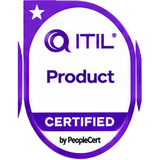
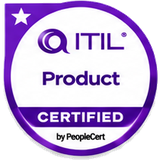
New ITIL badge set (incl. Master); main map ends at Level 7
- 14 badges re-cut from the new image, ITIL Master now has its badge
- Removed the ITIL boxes after Level 7 on the main map; they stay on
  the Advanced Specializations page; cache v=68

Claude-Session: https://claude.ai/code/session_018kgnHRXPcwgYaQevPB5mKf

diff --git a/lesson.html b/lesson.html
@@ -4,7 +4,7 @@
   <link rel="preconnect" href="https://fonts.googleapis.com"><link rel="preconnect" href="https://fonts.gstatic.com" crossorigin><link href="https://fonts.googleapis.com/css2?family=Poppins:wght@400;500;600;700;800&display=swap" rel="stylesheet">
   <meta charset="utf-8">
   <meta name="robots" content="noindex,nofollow">
-  <script src="gate.js?v=67"></script>
+  <script src="gate.js?v=68"></script>
   <meta name="viewport" content="width=device-width, initial-scale=1">
   <title>Lesson · 10-Minute IT Roadmap</title>
   <meta name="description" content="From complete beginner to IT specialist, one 10-minute lesson at a time.">
@@ -12,7 +12,7 @@
   <link rel="manifest" href="manifest.webmanifest">
   <meta name="theme-color" content="#0a0a14">
   <link rel="apple-touch-icon" href="assets/app/apple-touch-icon.png">
-  <link rel="stylesheet" href="style.css?v=67">
+  <link rel="stylesheet" href="style.css?v=68">
 </head>
 <body data-page="lesson">
 
@@ -38,12 +38,12 @@
     <span>Videos on <a href="https://www.youtube.com/" target="_blank" rel="noopener">YouTube</a></span>
   </footer>
 
-  <script src="roadmap.js?v=67"></script>
-  <script src="courses.js?v=67"></script>
-  <script src="icons.js?v=67"></script>
-  <script src="quiz.js?v=67"></script>
-  <script src="celebrate.js?v=67"></script>
-  <script src="lesson.js?v=67"></script>
-  <script src="nav.js?v=67"></script>
+  <script src="roadmap.js?v=68"></script>
+  <script src="courses.js?v=68"></script>
+  <script src="icons.js?v=68"></script>
+  <script src="quiz.js?v=68"></script>
+  <script src="celebrate.js?v=68"></script>
+  <script src="lesson.js?v=68"></script>
+  <script src="nav.js?v=68"></script>
 </body>
 </html>

diff --git a/app.js b/app.js
@@ -71,10 +71,8 @@
 
   var midEl = document.createElement("div");  midEl.className = "final l6m";
   var finalEl = document.createElement("div");  finalEl.className = "final";
-  var advRecEl = document.createElement("div"); advRecEl.className = "final itil-rec-node"; var advRec = itilRecCard("advanced"); advRecEl.appendChild(advRec);
-  var furRecEl = document.createElement("div"); furRecEl.className = "final itil-rec-node"; var furRec = itilRecCard("further"); furRecEl.appendChild(furRec);
   var trackEl = document.createElement("div");  trackEl.className = "final track";
-  if (levelsEl) { levelsEl.appendChild(trunk); levelsEl.appendChild(branches); levelsEl.appendChild(l5El); levelsEl.appendChild(certEl); levelsEl.appendChild(toolsEl); levelsEl.appendChild(midEl); levelsEl.appendChild(finalEl); levelsEl.appendChild(advRecEl); levelsEl.appendChild(furRecEl); levelsEl.appendChild(trackEl); }
+  if (levelsEl) { levelsEl.appendChild(trunk); levelsEl.appendChild(branches); levelsEl.appendChild(l5El); levelsEl.appendChild(certEl); levelsEl.appendChild(toolsEl); levelsEl.appendChild(midEl); levelsEl.appendChild(finalEl); levelsEl.appendChild(trackEl); }
 
   function closeAll(except) {
     entries.forEach(function (en) { if (en.lv !== except) en.lv.classList.remove("open"); });
@@ -256,9 +254,6 @@
       linkDashed(toolsRect, l6mRect, "#38bdf8");
       link(6, 7, 7);
     }
-    var l7Rect = entries[7].card.getBoundingClientRect(), advRect = advRec.getBoundingClientRect(), furRect = furRec.getBoundingClientRect();
-    linkDashed(l7Rect, advRect, "#38bdf8");
-    linkDashed(advRect, furRect, "#fbbf24");
     svg.innerHTML = out;
   }
 

diff --git a/level.html b/level.html
@@ -4,7 +4,7 @@
   <link rel="preconnect" href="https://fonts.googleapis.com"><link rel="preconnect" href="https://fonts.gstatic.com" crossorigin><link href="https://fonts.googleapis.com/css2?family=Poppins:wght@400;500;600;700;800&display=swap" rel="stylesheet">
   <meta charset="utf-8">
   <meta name="robots" content="noindex,nofollow">
-  <script src="gate.js?v=67"></script>
+  <script src="gate.js?v=68"></script>
   <meta name="viewport" content="width=device-width, initial-scale=1">
   <title>Level · 10-Minute IT Roadmap</title>
   <meta name="description" content="From complete beginner to IT specialist, one 10-minute lesson at a time.">
@@ -12,7 +12,7 @@
   <link rel="manifest" href="manifest.webmanifest">
   <meta name="theme-color" content="#0a0a14">
   <link rel="apple-touch-icon" href="assets/app/apple-touch-icon.png">
-  <link rel="stylesheet" href="style.css?v=67">
+  <link rel="stylesheet" href="style.css?v=68">
 </head>
 <body data-page="level">
 
@@ -48,11 +48,11 @@
     <span>Videos on <a href="https://www.youtube.com/" target="_blank" rel="noopener">YouTube</a></span>
   </footer>
 
-  <script src="roadmap.js?v=67"></script>
-  <script src="courses.js?v=67"></script>
-  <script src="icons.js?v=67"></script>
-  <script src="quiz.js?v=67"></script>
-  <script src="level.js?v=67"></script>
-  <script src="nav.js?v=67"></script>
+  <script src="roadmap.js?v=68"></script>
+  <script src="courses.js?v=68"></script>
+  <script src="icons.js?v=68"></script>
+  <script src="quiz.js?v=68"></script>
+  <script src="level.js?v=68"></script>
+  <script src="nav.js?v=68"></script>
 </body>
 </html>

diff --git a/intermediate.html b/intermediate.html
@@ -4,7 +4,7 @@
   <link rel="preconnect" href="https://fonts.googleapis.com"><link rel="preconnect" href="https://fonts.gstatic.com" crossorigin><link href="https://fonts.googleapis.com/css2?family=Poppins:wght@400;500;600;700;800&display=swap" rel="stylesheet">
   <meta charset="utf-8">
   <meta name="robots" content="noindex,nofollow">
-  <script src="gate.js?v=67"></script>
+  <script src="gate.js?v=68"></script>
   <meta name="viewport" content="width=device-width, initial-scale=1">
   <title>Intermediate · 10-Minute IT Roadmap</title>
   <meta name="description" content="Intermediate IT roadmap — 11 modules from OS internals to cloud computing.">
@@ -12,7 +12,7 @@
   <link rel="manifest" href="manifest.webmanifest">
   <meta name="theme-color" content="#0a0a14">
   <link rel="apple-touch-icon" href="assets/app/apple-touch-icon.png">
-  <link rel="stylesheet" href="style.css?v=67">
+  <link rel="stylesheet" href="style.css?v=68">
   <style>
     /* Intermediate page — blue-teal accent overrides */
     body[data-page="int"] {
@@ -91,10 +91,10 @@
     <span>Videos on <a href="https://www.youtube.com/" target="_blank" rel="noopener">YouTube</a></span>
   </footer>
 
-  <script src="roadmap.js?v=67"></script>
-  <script src="courses.js?v=67"></script>
-  <script src="icons.js?v=67"></script>
-  <script src="int-app.js?v=67"></script>
-  <script src="nav.js?v=67"></script>
+  <script src="roadmap.js?v=68"></script>
+  <script src="courses.js?v=68"></script>
+  <script src="icons.js?v=68"></script>
+  <script src="int-app.js?v=68"></script>
+  <script src="nav.js?v=68"></script>
 </body>
 </html>

diff --git a/index.html b/index.html
@@ -4,7 +4,7 @@
   <link rel="preconnect" href="https://fonts.googleapis.com"><link rel="preconnect" href="https://fonts.gstatic.com" crossorigin><link href="https://fonts.googleapis.com/css2?family=Poppins:wght@400;500;600;700;800&display=swap" rel="stylesheet">
   <meta charset="utf-8">
   <meta name="robots" content="noindex,nofollow">
-  <script src="gate.js?v=67"></script>
+  <script src="gate.js?v=68"></script>
   <meta name="viewport" content="width=device-width, initial-scale=1">
   <title>10-Minute IT Roadmap</title>
   <meta name="description" content="From complete beginner to IT specialist, one 10-minute lesson at a time.">
@@ -12,7 +12,7 @@
   <link rel="manifest" href="manifest.webmanifest">
   <meta name="theme-color" content="#0a0a14">
   <link rel="apple-touch-icon" href="assets/app/apple-touch-icon.png">
-  <link rel="stylesheet" href="style.css?v=67">
+  <link rel="stylesheet" href="style.css?v=68">
 </head>
 <body>
 
@@ -86,12 +86,12 @@
     </div>
   </div>
 
-  <script src="roadmap.js?v=67"></script>
-  <script src="courses.js?v=67"></script>
-  <script src="icons.js?v=67"></script>
-  <script src="quiz.js?v=67"></script>
-  <script src="app.js?v=67"></script>
-  <script src="nav.js?v=67"></script>
-  <script src="plans.js?v=67"></script>
+  <script src="roadmap.js?v=68"></script>
+  <script src="courses.js?v=68"></script>
+  <script src="icons.js?v=68"></script>
+  <script src="quiz.js?v=68"></script>
+  <script src="app.js?v=68"></script>
+  <script src="nav.js?v=68"></script>
+  <script src="plans.js?v=68"></script>
 </body>
 </html>

diff --git a/courses.js b/courses.js
@@ -234,7 +234,7 @@ const ITIL_RECS = {
     { name: "ITIL Managing Professional", items: ["product", "service", "experience", "transformation"], note: "Transformation is the shared requirement" },
     { name: "ITIL Strategic Leader", items: ["strategy", "transformation"], note: "Transformation is the shared requirement" }
   ]},
-  further: { title: "Further achievements and specialization", sub: "Optional", color: "#fbbf24", groups: [
+  further: { badge: "master", title: "Further achievements and specialization", sub: "Optional", color: "#fbbf24", groups: [
     { name: "ITIL Master", items: ["master"], note: "requires all three designations" },
     { name: "ITIL AI Governance", items: ["aigov"], note: "optional extension certification" }
   ]}
@@ -261,8 +261,8 @@ function itilRecCard(key) {
   return card;
 }
 
-/* official-style ITIL badge images (assets/itil-badges/<id>.png). ITIL Master has none, so it keeps the drawn badge. */
-const ITIL_BADGES = ["foundation", "transformation", "pm", "mp", "sl", "msf", "pic", "cai", "product", "service", "experience", "strategy", "aigov"];
+/* official-style ITIL badge images (assets/itil-badges/<id>.png) */
+const ITIL_BADGES = ["foundation", "transformation", "pm", "mp", "sl", "master", "msf", "pic", "cai", "product", "service", "experience", "strategy", "aigov"];
 function itilBadgeImg(id, size, cls) {
   if (ITIL_BADGES.indexOf(id) < 0) return "";
   return '<img class="itil-badge ' + (cls || "") + '" src="assets/itil-badges/' + id + '.png" alt="" width="' + size + '" height="' + size + '">';

diff --git a/certs.html b/certs.html
@@ -4,7 +4,7 @@
   <link rel="preconnect" href="https://fonts.googleapis.com"><link rel="preconnect" href="https://fonts.gstatic.com" crossorigin><link href="https://fonts.googleapis.com/css2?family=Poppins:wght@400;500;600;700;800&display=swap" rel="stylesheet">
   <meta charset="utf-8">
   <meta name="robots" content="noindex,nofollow">
-  <script src="gate.js?v=67"></script>
+  <script src="gate.js?v=68"></script>
   <meta name="viewport" content="width=device-width, initial-scale=1">
   <title>Certifications · 10-Minute IT Roadmap</title>
   <meta name="description" content="From complete beginner to IT specialist, one 10-minute lesson at a time.">
@@ -12,7 +12,7 @@
   <link rel="manifest" href="manifest.webmanifest">
   <meta name="theme-color" content="#0a0a14">
   <link rel="apple-touch-icon" href="assets/app/apple-touch-icon.png">
-  <link rel="stylesheet" href="style.css?v=67">
+  <link rel="stylesheet" href="style.css?v=68">
 </head>
 <body data-page="certs">
 
@@ -52,10 +52,10 @@
     <span>Videos on <a href="https://www.youtube.com/" target="_blank" rel="noopener">YouTube</a></span>
   </footer>
 
-  <script src="roadmap.js?v=67"></script>
-  <script src="courses.js?v=67"></script>
-  <script src="icons.js?v=67"></script>
-  <script src="certs.js?v=67"></script>
-  <script src="nav.js?v=67"></script>
+  <script src="roadmap.js?v=68"></script>
+  <script src="courses.js?v=68"></script>
+  <script src="icons.js?v=68"></script>
+  <script src="certs.js?v=68"></script>
+  <script src="nav.js?v=68"></script>
 </body>
 </html>

diff --git a/tools.html b/tools.html
@@ -4,7 +4,7 @@
   <link rel="preconnect" href="https://fonts.googleapis.com"><link rel="preconnect" href="https://fonts.gstatic.com" crossorigin><link href="https://fonts.googleapis.com/css2?family=Poppins:wght@400;500;600;700;800&display=swap" rel="stylesheet">
   <meta charset="utf-8">
   <meta name="robots" content="noindex,nofollow">
-  <script src="gate.js?v=67"></script>
+  <script src="gate.js?v=68"></script>
   <meta name="viewport" content="width=device-width, initial-scale=1">
   <title>IT Tools · 10-Minute IT Roadmap</title>
   <meta name="description" content="From complete beginner to IT specialist, one 10-minute lesson at a time.">
@@ -12,7 +12,7 @@
   <link rel="manifest" href="manifest.webmanifest">
   <meta name="theme-color" content="#0a0a14">
   <link rel="apple-touch-icon" href="assets/app/apple-touch-icon.png">
-  <link rel="stylesheet" href="style.css?v=67">
+  <link rel="stylesheet" href="style.css?v=68">
 </head>
 <body data-page="tools">
 
@@ -49,9 +49,9 @@
     <span>Videos on <a href="https://www.youtube.com/" target="_blank" rel="noopener">YouTube</a></span>
   </footer>
 
-  <script src="roadmap.js?v=67"></script>
-  <script src="courses.js?v=67"></script>
-  <script src="tools-page.js?v=67"></script>
-  <script src="nav.js?v=67"></script>
+  <script src="roadmap.js?v=68"></script>
+  <script src="courses.js?v=68"></script>
+  <script src="tools-page.js?v=68"></script>
+  <script src="nav.js?v=68"></script>
 </body>
 </html>

diff --git a/course.html b/course.html
@@ -4,7 +4,7 @@
   <link rel="preconnect" href="https://fonts.googleapis.com"><link rel="preconnect" href="https://fonts.gstatic.com" crossorigin><link href="https://fonts.googleapis.com/css2?family=Poppins:wght@400;500;600;700;800&display=swap" rel="stylesheet">
   <meta charset="utf-8">
   <meta name="robots" content="noindex,nofollow">
-  <script src="gate.js?v=67"></script>
+  <script src="gate.js?v=68"></script>
   <meta name="viewport" content="width=device-width, initial-scale=1">
   <title>ITIL · 10-Minute IT Roadmap</title>
   <meta name="description" content="From complete beginner to IT specialist, one 10-minute lesson at a time.">
@@ -12,7 +12,7 @@
   <link rel="manifest" href="manifest.webmanifest">
   <meta name="theme-color" content="#0a0a14">
   <link rel="apple-touch-icon" href="assets/app/apple-touch-icon.png">
-  <link rel="stylesheet" href="style.css?v=67">
+  <link rel="stylesheet" href="style.css?v=68">
 </head>
 <body data-page="course">
 
@@ -38,9 +38,9 @@
     <span>Videos on <a href="https://www.youtube.com/" target="_blank" rel="noopener">YouTube</a></span>
   </footer>
 
-  <script src="roadmap.js?v=67"></script>
-  <script src="courses.js?v=67"></script>
-  <script src="course-page.js?v=67"></script>
-  <script src="nav.js?v=67"></script>
+  <script src="roadmap.js?v=68"></script>
+  <script src="courses.js?v=68"></script>
+  <script src="course-page.js?v=68"></script>
+  <script src="nav.js?v=68"></script>
 </body>
 </html>

diff --git a/tool.html b/tool.html
@@ -4,7 +4,7 @@
   <link rel="preconnect" href="https://fonts.googleapis.com"><link rel="preconnect" href="https://fonts.gstatic.com" crossorigin><link href="https://fonts.googleapis.com/css2?family=Poppins:wght@400;500;600;700;800&display=swap" rel="stylesheet">
   <meta charset="utf-8">
   <meta name="robots" content="noindex,nofollow">
-  <script src="gate.js?v=67"></script>
+  <script src="gate.js?v=68"></script>
   <meta name="viewport" content="width=device-width, initial-scale=1">
   <title>Tool · 10-Minute IT Roadmap</title>
   <meta name="description" content="From complete beginner to IT specialist, one 10-minute lesson at a time.">
@@ -12,7 +12,7 @@
   <link rel="manifest" href="manifest.webmanifest">
   <meta name="theme-color" content="#0a0a14">
   <link rel="apple-touch-icon" href="assets/app/apple-touch-icon.png">
-  <link rel="stylesheet" href="style.css?v=67">
+  <link rel="stylesheet" href="style.css?v=68">
 </head>
 <body data-page="tool">
 
@@ -38,9 +38,9 @@
     <span>Videos on <a href="https://www.youtube.com/" target="_blank" rel="noopener">YouTube</a></span>
   </footer>
 
-  <script src="roadmap.js?v=67"></script>
-  <script src="courses.js?v=67"></script>
-  <script src="tool-page.js?v=67"></script>
-  <script src="nav.js?v=67"></script>
+  <script src="roadmap.js?v=68"></script>
+  <script src="courses.js?v=68"></script>
+  <script src="tool-page.js?v=68"></script>
+  <script src="nav.js?v=68"></script>
 </body>
 </html>

diff --git a/spec.html b/spec.html
@@ -4,7 +4,7 @@
   <link rel="preconnect" href="https://fonts.googleapis.com"><link rel="preconnect" href="https://fonts.gstatic.com" crossorigin><link href="https://fonts.googleapis.com/css2?family=Poppins:wght@400;500;600;700;800&display=swap" rel="stylesheet">
   <meta charset="utf-8">
   <meta name="robots" content="noindex,nofollow">
-  <script src="gate.js?v=67"></script>
+  <script src="gate.js?v=68"></script>
   <meta name="viewport" content="width=device-width, initial-scale=1">
   <title>Specialization · 10-Minute IT Roadmap</title>
   <meta name="description" content="From complete beginner to IT specialist, one 10-minute lesson at a time.">
@@ -12,7 +12,7 @@
   <link rel="manifest" href="manifest.webmanifest">
   <meta name="theme-color" content="#0a0a14">
   <link rel="apple-touch-icon" href="assets/app/apple-touch-icon.png">
-  <link rel="stylesheet" href="style.css?v=67">
+  <link rel="stylesheet" href="style.css?v=68">
 </head>
 <body data-page="spec">
 
@@ -45,9 +45,9 @@
     <span>Videos on <a href="https://www.youtube.com/" target="_blank" rel="noopener">YouTube</a></span>
   </footer>
 
-  <script src="roadmap.js?v=67"></script>
-  <script src="icons.js?v=67"></script>
-  <script src="spec.js?v=67"></script>
-  <script src="nav.js?v=67"></script>
+  <script src="roadmap.js?v=68"></script>
+  <script src="icons.js?v=68"></script>
+  <script src="spec.js?v=68"></script>
+  <script src="nav.js?v=68"></script>
 </body>
 </html>

diff --git a/plans.html b/plans.html
@@ -4,7 +4,7 @@
   <link rel="preconnect" href="https://fonts.googleapis.com"><link rel="preconnect" href="https://fonts.gstatic.com" crossorigin><link href="https://fonts.googleapis.com/css2?family=Poppins:wght@400;500;600;700;800&display=swap" rel="stylesheet">
   <meta charset="utf-8">
   <meta name="robots" content="noindex,nofollow">
-  <script src="gate.js?v=67"></script>
+  <script src="gate.js?v=68"></script>
   <meta name="viewport" content="width=device-width, initial-scale=1">
   <title>Plans · 10-Minute IT Roadmap</title>
   <meta name="description" content="From complete beginner to IT specialist, one 10-minute lesson at a time.">
@@ -12,7 +12,7 @@
   <link rel="manifest" href="manifest.webmanifest">
   <meta name="theme-color" content="#0a0a14">
   <link rel="apple-touch-icon" href="assets/app/apple-touch-icon.png">
-  <link rel="stylesheet" href="style.css?v=67">
+  <link rel="stylesheet" href="style.css?v=68">
 </head>
 <body data-page="plans">
 
@@ -40,9 +40,9 @@
     <span>Videos on <a href="https://www.youtube.com/" target="_blank" rel="noopener">YouTube</a></span>
   </footer>
 
-  <script src="roadmap.js?v=67"></script>
-  <script src="icons.js?v=67"></script>
-  <script src="plans.js?v=67"></script>
-  <script src="nav.js?v=67"></script>
+  <script src="roadmap.js?v=68"></script>
+  <script src="icons.js?v=68"></script>
+  <script src="plans.js?v=68"></script>
+  <script src="nav.js?v=68"></script>
 </body>
 </html>
